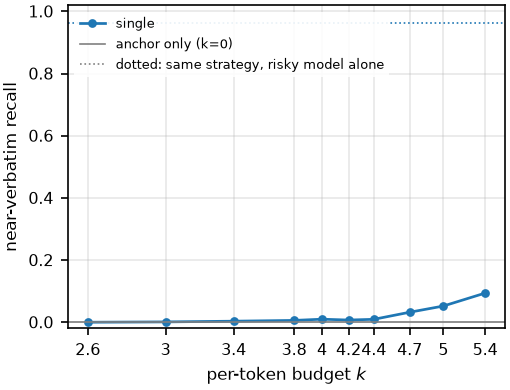
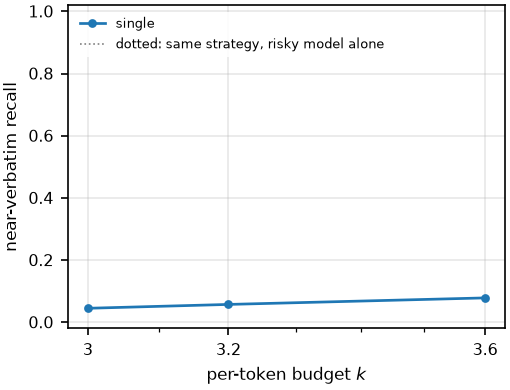
seed-80 rescored on the extended grid: no-crossing falls 2.1% -> 0.0%, onset and ratio unchanged, interval honestly wider

diff --git a/results/onset_prediction_seed.md b/results/onset_prediction_seed.md
@@ -270,3 +270,24 @@ The target is **12% shorter** than the control's, 520 tokens against 590, becaus
 partition one passage. On an absolute word count that makes the threshold harder to reach and
 pushes the onset **up** --- the direction of the reversal. This arm therefore cannot be read as a
 clean seed effect, and the write-up must say so rather than presenting a tidy monotone curve.
+
+## The seed-80 grid extension, as committed (2026-09-10)
+
+Three budgets added above the crossing (k in {3.0, 3.2, 3.6}, `output/phase5/seed80_kl3m520m_hi`)
+and merged with the original into `output/phase5/seed80_kl3m520m_merged`, which the manifest now
+points at. Both grids:
+
+     grid                       onset    ratio           95% CI    no crossing
+     original, k <= 2.8         2.521    1.056     [0.78, 1.13]           2.1%
+     merged,   k <= 3.6         2.521    1.056     [0.78, 1.16]           0.0%
+
+The extension did what it was for: the no-crossing fraction falls from 2.1% to **zero**, so every
+bootstrap resample now crosses inside the grid and the point estimate was not an artefact of the
+ceiling. The onset and the ratio are unchanged to three decimals. The interval's upper end widens
+slightly, from 1.13 to 1.16, because resamples that previously failed to cross now cross at high
+budgets and are counted rather than dropped --- a wider interval that is honest rather than a
+narrower one that was truncated.
+
+The conclusion is unchanged and now rests on a grid that does not clip it: the seed-80 ratio is
+1.056, above seed-40's 0.939, so the dose-response is non-monotone and (S) is refuted, while (K)'s
+0.946 is 12% below the measurement.
